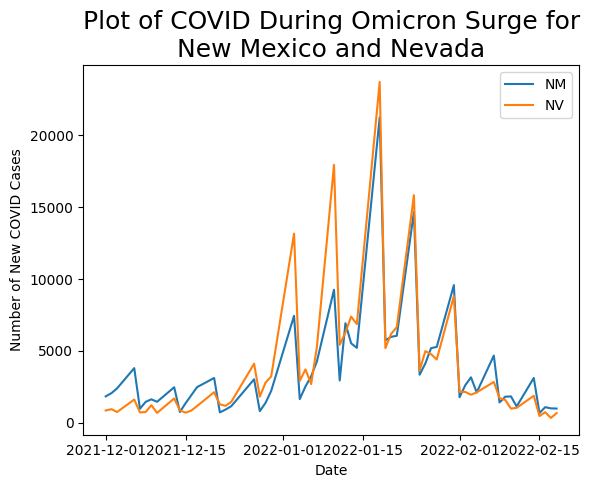
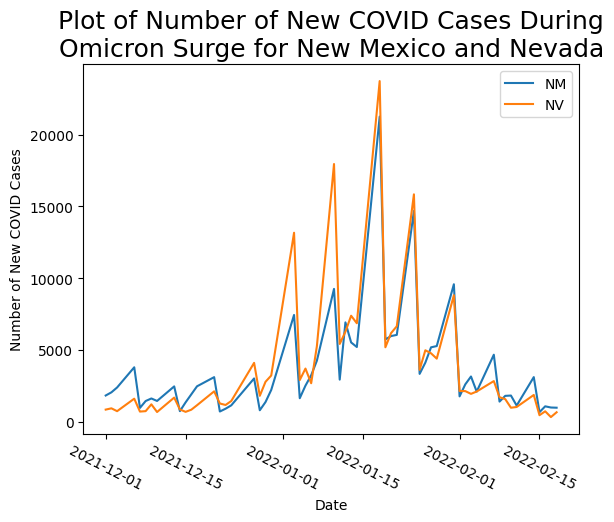
small formatting updates

Changed region(s): [[0.0, 0.0, 1.0, 0.9836]]

diff --git a/part3/analyze.py b/part3/analyze.py
@@ -11,10 +11,10 @@ fn = 'United_States_COVID-19_Cases_and_Deaths_by_State_over_Time.csv'
 jarLocation = "/Users/gjacobu/Documents/school/CAS/unm-cs523-project1/jidt/infodynamics.jar"
 # Start the JVM (add the "-Xmx" option with say 1024M if you get crashes due to not enough memory space)
 #startJVM(getDefaultJVMPath(), "-ea", "-Djava.class.path=" + jarLocation, '-Xmx12000m')
-startJVM(getDefaultJVMPath(), "-ea", "-Djava.class.path=" + jarLocation, '-Xmx4G')
+startJVM(getDefaultJVMPath(), "-ea", "-Djava.class.path=" + jarLocation, '-Xmx62G')
 num_bins = 500
-num_bins = 25
-k = 4 # Number of timesteps to look back
+#num_bins = 100
+k = 0 # Number of timesteps to look back
 dpi = 100
 
 df = pd.read_csv(fn, parse_dates=['submission_date'])
@@ -76,7 +76,6 @@ def te(y0, y1):
     #First, discretize the values
     max_val = max((max(y0), max(y1)))
     min_val = min((min(y0), min(y1)))
-    print(min_val, max_val)
     y0_discrete = np.digitize(y0, np.linspace(min_val,max_val,num_bins))
     y1_discrete = np.digitize(y1, np.linspace(min_val,max_val,num_bins))
     unique_vals = len(set(y0_discrete).union(set(y1_discrete)))
@@ -100,22 +99,23 @@ plot(nv_data, 'NV')
 plt.xlabel("Date")
 plt.ylabel("Number of New COVID Cases")
 plt.legend()
-title = "\n".join(wrap("Plot of COVID During Omicron Surge for New Mexico and Nevada", 40))
+title = "\n".join(wrap("Plot of Number of New COVID Cases During Omicron Surge for New Mexico and Nevada", 40))
 plt.title(title, fontsize=18)
 plt.xticks(rotation=-27)
 plt.savefig('fig_3_covid_plot.png', dpi=dpi, bbox_inches="tight")
 plt.clf()
 
 y0_venn_val, y1_venn_val, mi = venn_diagram(nm_data['new_case'], nv_data['new_case'])
-title = wrap("Entropy and Mutual Information for COVID During Omicron Surge for New Mexico and Nevada", 40)
-plt.title('\n'.join(title))
+title = wrap("Entropy and Mutual Information for Number of New COVID Cases During Omicron Surge for New Mexico and Nevada", 40)
+plt.title('\n'.join(title), fontsize=18)
 plt.savefig('fig_3_covid_venn.png', dpi=dpi, bbox_inches="tight")
 plt.clf()
 
 
 transfer_ent_nm_nv = te(nm_data['new_case'], nv_data['new_case'])
 transfer_ent_nv_nm = te(nv_data['new_case'], nm_data['new_case'])
-print(f"Transfer Entropy (nm -> nv): {transfer_ent_nm_nv}")
-print(f"Transfer Entropy (nv -> nm): {transfer_ent_nv_nm}")
-print(f"Transfer Entropy (nm -> nv) / nv_venn_val = {transfer_ent_nm_nv / y1_venn_val}")
-print(f"Transfer Entropy (nv -> nm) / nm_venn_val = {transfer_ent_nv_nm / y0_venn_val}")
+print(f"Transfer Entropy (nm -> nv): {round(transfer_ent_nm_nv, 4)}")
+print(f"Transfer Entropy (nv -> nm): {round(transfer_ent_nv_nm, 4)}")
+print(f"Transfer Entropy (nm -> nv) / nv_venn_val = {round(transfer_ent_nm_nv / y1_venn_val, 4)}")
+print(f"Transfer Entropy (nv -> nm) / nm_venn_val = {round(transfer_ent_nv_nm / y0_venn_val, 4)}")
+shutdownJVM()
